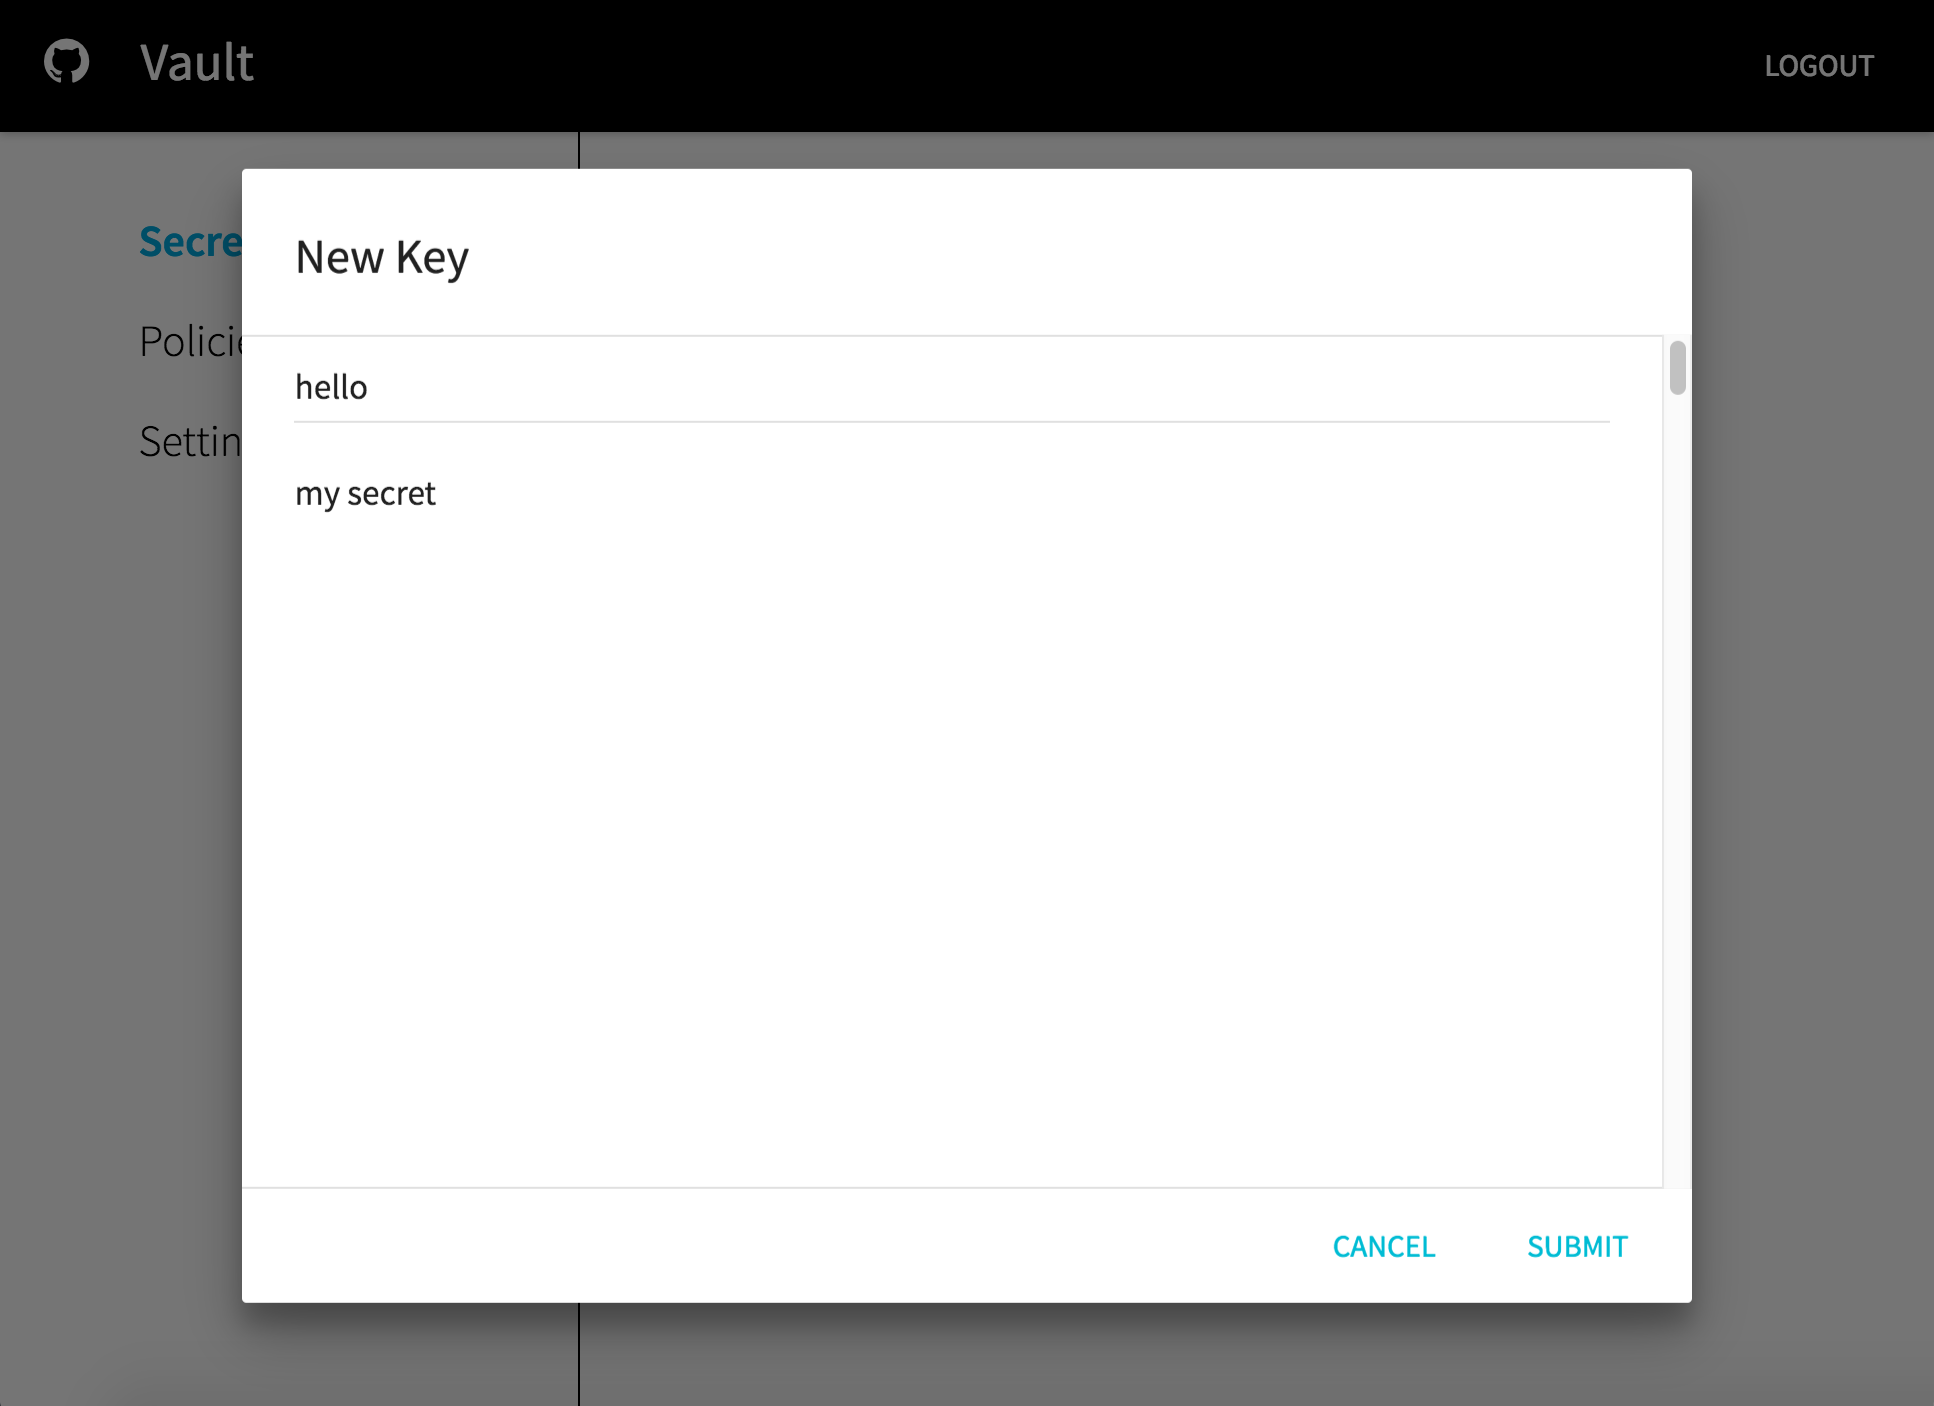
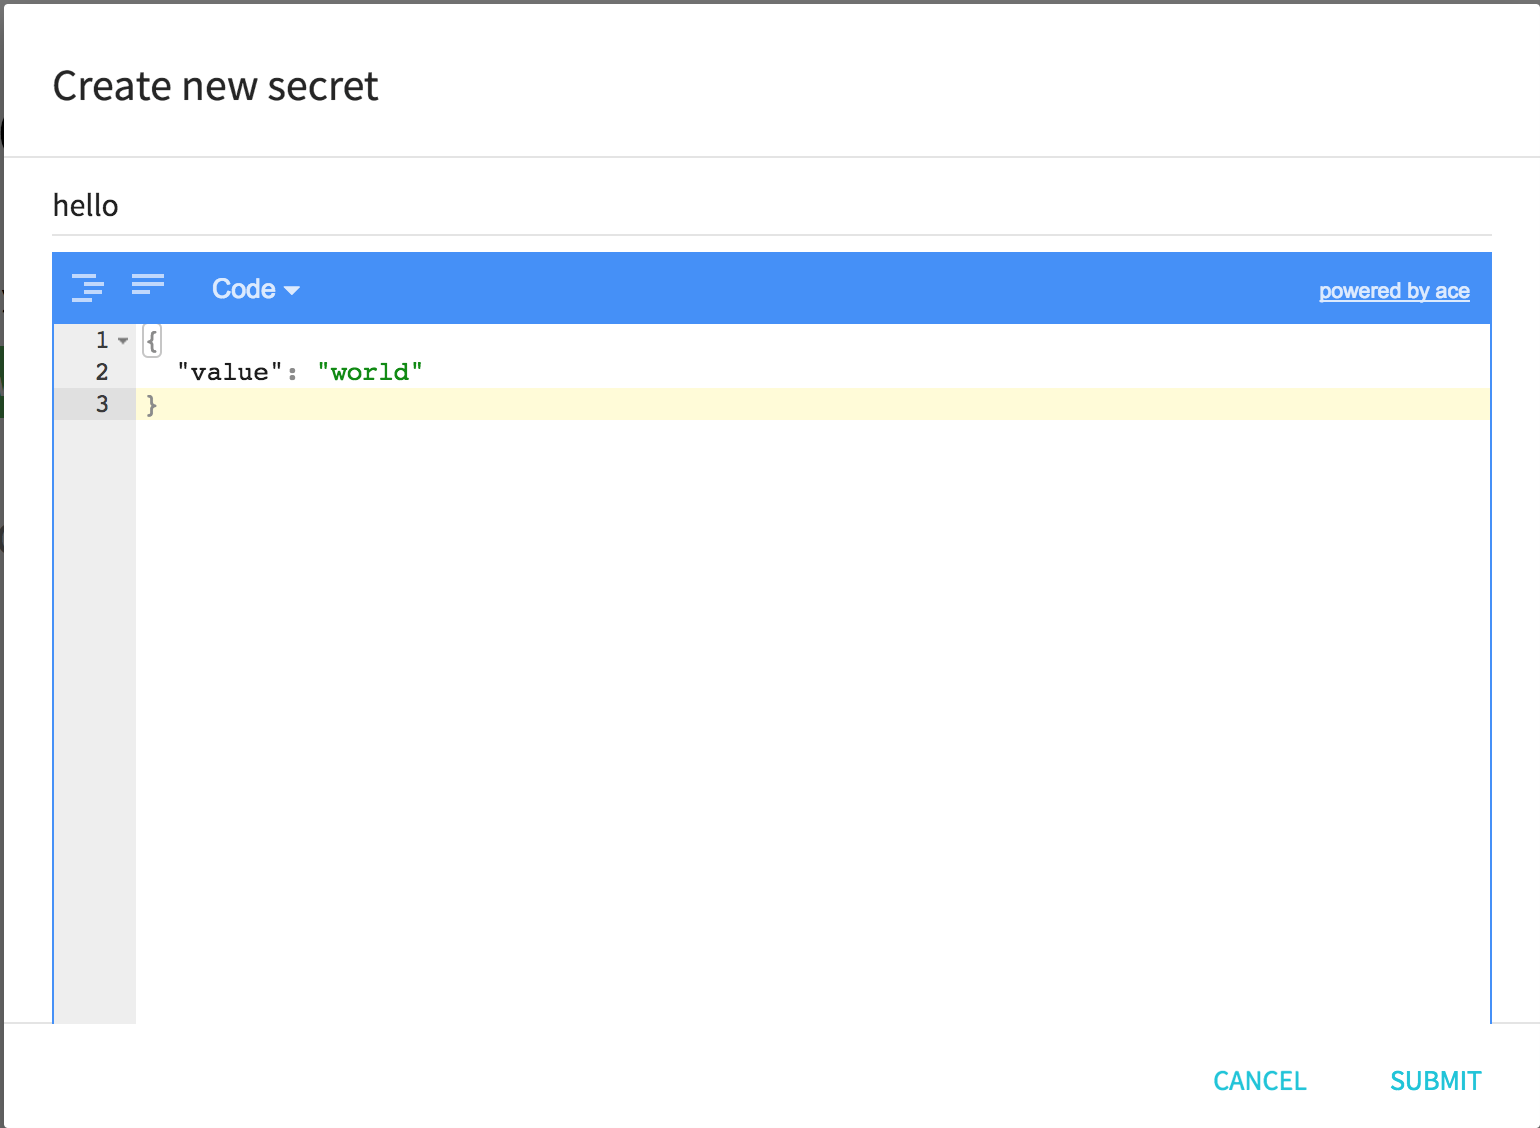
Update README

diff --git a/README.md b/README.md
@@ -5,12 +5,12 @@
 A beautiful way to manage your secrets in Vault
 ![Landing Page](https://github.com/djenriquez/vault-ui/raw/master/images/Landing.jpg)
 
-![Secrets Management](https://github.com/djenriquez/vault-ui/raw/master/images/Secrets.png)
-![New Secrets](https://github.com/djenriquez/vault-ui/raw/master/images/NewSecret.png)
+![Secrets Management](https://github.com/djenriquez/vault-ui/raw/master/images/Home.png)
 
 ## Configuration
 Configuration is accessed by clicking on the configuration cog on the login page.
 ![Configuration](https://github.com/djenriquez/vault-ui/raw/master/images/Config.png)
+
 ### Vault Endpoint
 Users can enter in the full endpoint to Vault, including scheme.  When running the docker image, it is possible to
 set the environment variables `VAULT_URL_DEFAULT` and `VAULT_AUTH_DEFAULT`.
@@ -25,20 +25,36 @@ Currently supported authentication backends:
 - [LDAP](https://www.vaultproject.io/docs/auth/ldap.html)
 - [Tokens](https://www.vaultproject.io/docs/auth/token.html)
 
+### Token authentication by header (SSO)
+In some cases, users might want to use middleware to authenticate into Vault-UI for purposes like SSO. In this case, the `VAULT_SUPPLIED_TOKEN_HEADER` may be populated with the name of the header that contains a token to be used for authentication.
+
 ## Secrets
+![Secrets Management](https://github.com/djenriquez/vault-ui/raw/master/images/Secrets.png)
+
+Secrets are now managed using the graphical [josdejong/jsoneditor](https://github.com/josdejong/jsoneditor) JSON editor. Schema validation is enforced on policies to aid the operator in writing correct syntax.
+![New Secrets](https://github.com/djenriquez/vault-ui/raw/master/images/NewSecret.png)
+
+Secrets also are accessible directly by key from a browser by navigating to the URI `/secrets/<mount>/<namespace>/key`. For example, if you have a generic secret key of /hello/world/vault using the generic mount `secret`, one can navigate to this directly through http://vault-ui.myorg.com/secrets/secret/hello/world/vault.
+
+### Root key bias
 By default, secrets will display as their raw JSON value represented by the `data` field in the HTTP GET response metadata. However, users can apply a "Root Key" bias to the secrets through the settings page. The "Root Key" will be used when reading, creating and updating secrets such that the value displayed in the UI is the value stored at the "Root Key". For example, if the secret at `secret/hello` is `{ "value": "world" }`, setting the "Root Key" to `value` will update the UI such that the secret will display as simply "world" instead of `{ "value": "world" }`.
 <img src="https://github.com/djenriquez/vault-ui/raw/master/images/RootKey.png" height="240">
 
 ## Policies
-Policies can be entered in as JSON or as HCL. If entered in as HCL, it will be converted to JSON as required for the PUT command in Vault's API. However, existing policies that are in HCL will continue to be displayed in HCL.
+Policies are managed also using the [josdejong/jsoneditor](https://github.com/josdejong/jsoneditor) JSON editor. Currently, GitHub and raw Tokens are the only supported authentication backends for associated policies.
+
+## Token Management
+![Token Management](https://github.com/djenriquez/vault-ui/raw/master/images/TokenManagement.png)
+
+Users now have the ability to create and revoke tokens.
+![Token Management](https://github.com/djenriquez/vault-ui/raw/master/images/NewToken.png)
 
 ## Response Wrapping
 Vault-UI supports response-wrapping raw values. It currently does not support wrapping of existing secrets.
 ![Response Wrapping](https://github.com/djenriquez/vault-ui/raw/master/images/ResponseWrapping.png)
 
 ## Run
-Vault-UI Docker images are automatically built using an [automated build
-on Docker Hub](https://hub.docker.com/r/djenriquez/vault-ui/builds/).
+Vault-UI Docker images are automatically built using an [automated build on Docker Hub](https://hub.docker.com/r/djenriquez/vault-ui/builds/). We encourage that versioned images are used for production.
 To run Vault-UI using the latest Docker image:
 ```bash
 docker run -d \
@@ -66,6 +82,8 @@ into with username "test" and password "test":
 ```sh
 ./run-docker-compose-dev
 ```
+
+If major changes are made, be sure to run `docker-compose build` to rebuild dependencies.
 
 ### Without Docker
 The following will spin up a Vault UI server only. It will not set up
